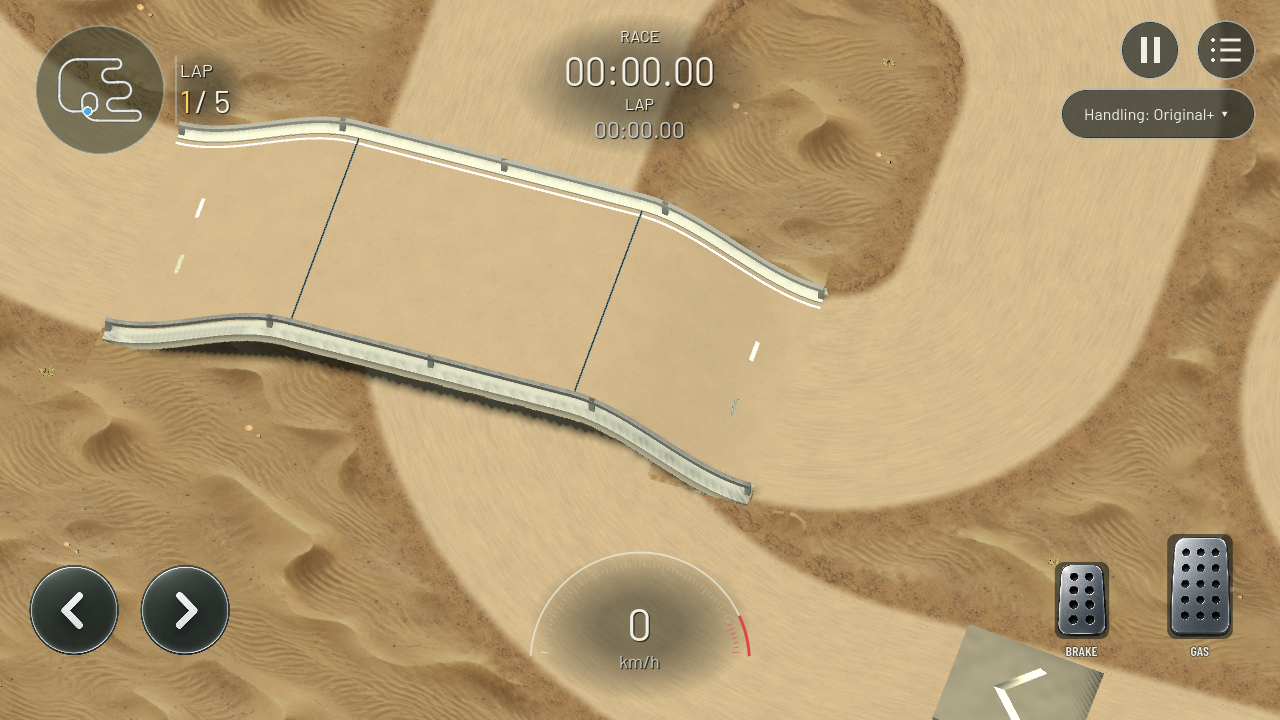
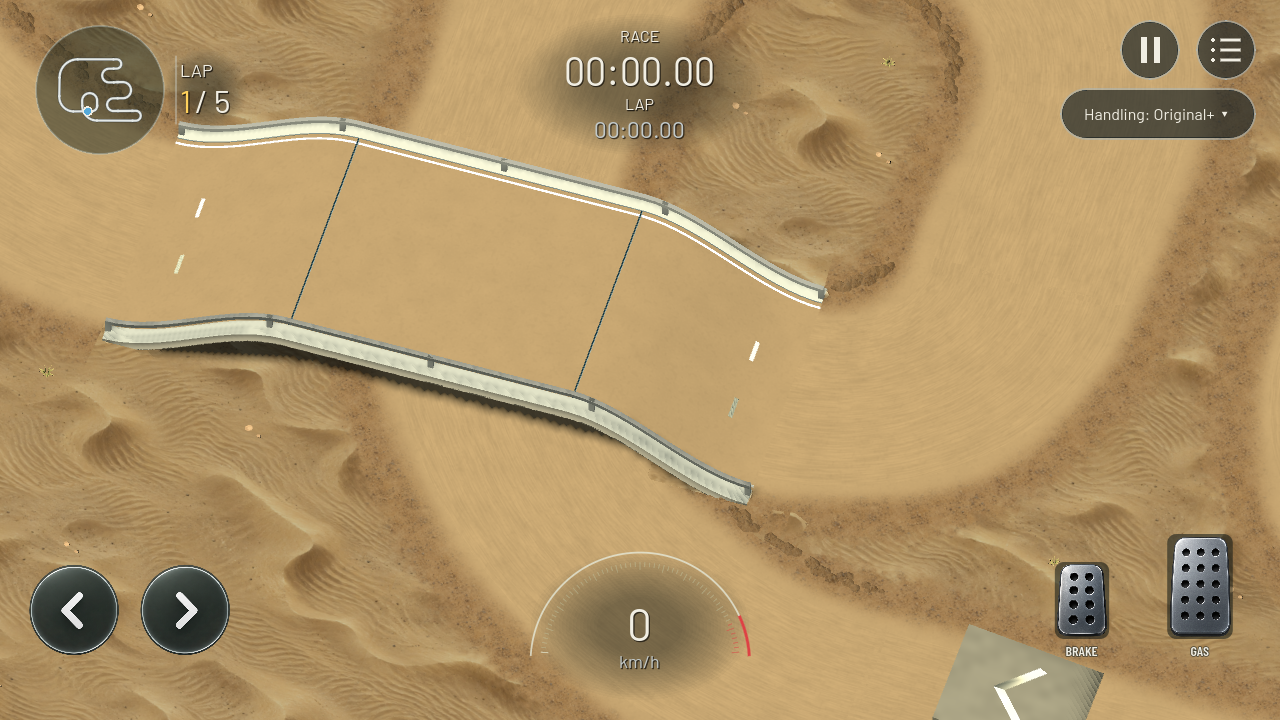
Add weathered desert finish markings

diff --git a/docs/DESERT_START_FINISH.md b/docs/DESERT_START_FINISH.md
@@ -1,0 +1,14 @@
+# Desert start/finish marking
+
+2026-09-24; V02/V04/V05/Q01; visual kit 72.
+
+The supplied reference and follow-up correction supersede kits 70/71. Checker pitch increases from 0.42 to 0.54 m (29%); near-contiguous cells have shader-eroded edges instead of wide regular gaps. Cooler beige/brown pigments (#938267 / #635b4b) replace the orange tones. Amplified multiscale abrasion exposes irregular patches of the road throughout each square. Desert now has two narrow rows of subdued sand checkers. Thin, uneven mineral pigment lets the actual road texture show through instead of covering it with opaque orange blocks. Existing surface-factor artwork supplies broad wear and fine grain. Other biomes, timing geometry, camera and handling remain unchanged.
+
+Changed files: `game/track/native_track_visual.gd`, new `game/track/desert_finish.gdshader`, palette/material assertions in `game/tests/test_desert.gd`, status/plan and refreshed desert evidence. The two existing material batches use alpha blending and do not cast shadows. No new artwork or external dependencies. Transparency adds a small overlapping surface cost; phone performance has not been measured.
+
+Validation through pinned Godot 4.7.2:
+
+- `powershell -NoProfile -ExecutionPolicy Bypass -File scripts/dev.ps1 -Action CaptureDesert -Track track_3e26605a8a90165e`: 61 checks, 0 failures, including five-car deterministic replay and graphical shader rendering. Repeated after correcting an overly pale intermediate palette; final run passes.
+- `git diff --check`: passes with existing line-ending notices.
+
+[Final desktop screenshot](evidence/desert-apron/start-straight.png). Desktop image inspected. Owner style acceptance and phone visibility, dust/transparency overlap in motion and performance remain outstanding. No Android export or physical-device test performed for this change; device attachment was not checked. Existing unrelated working-tree edits retained; no combined commit made.
